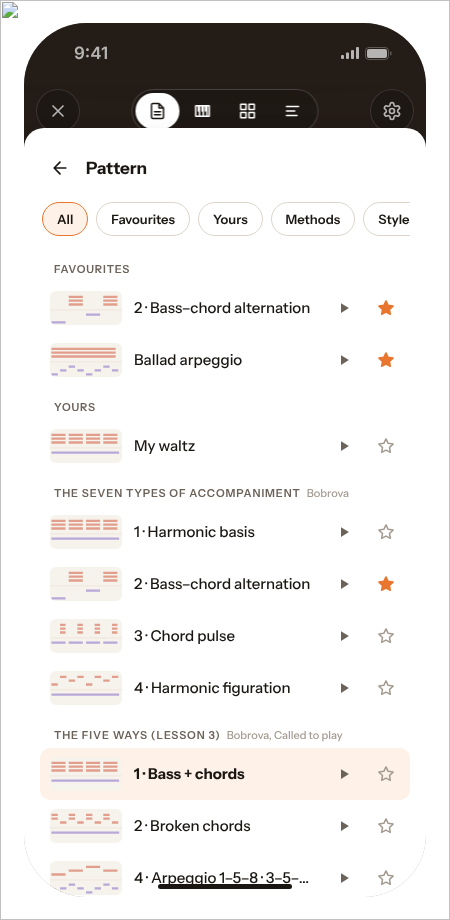
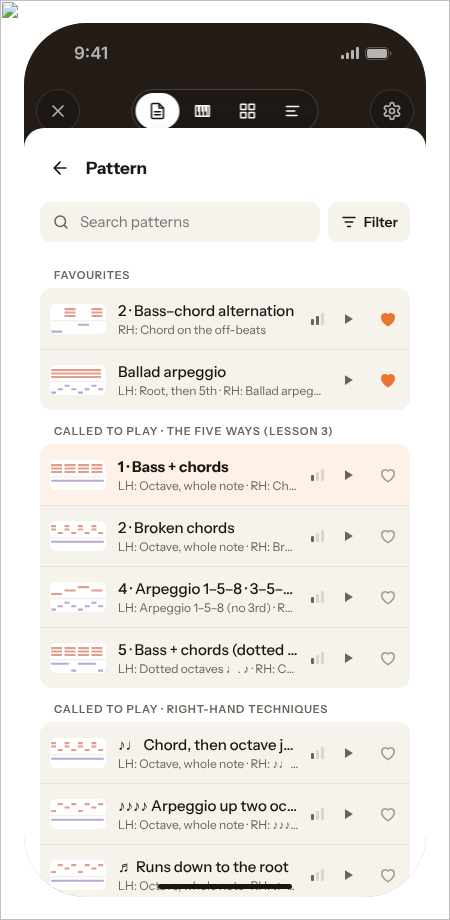
R37 canvas: the Player's Pattern page in the app's library shape
Search and a Level filter instead of kind chips; shelves named as Practice
names them, folded after five; rows with the hands line, level mark and a
heart, as Practice › Accompaniment draws them.

Claude-Session: https://claude.ai/code/session_01BrtnH1Yf7S8aVU4w6rFSCU

diff --git a/.scratch/r37/plan/pace-and-settings.md b/.scratch/r37/plan/pace-and-settings.md
@@ -54,15 +54,22 @@ patterns in our app, and how should they be organized like a library"; the two-a
 - References: Band-in-a-Box's StylePicker (favourites, a genre/feel filter, a double-click preview; pgmusic.com
   manuals), Yamaha arranger keyboards' style list (styles under family headings, a Favourites family), Logic Pro's
   Keyboard Session Player (Block, Broken, Arpeggiated styles with presets, user presets saved; support.apple.com).
-- Will build: Back · **Pattern**; filter chips **All · Favourites · Yours · Methods · Styles** (Methods the books'
-  groups, Styles the Rhythm styles); then the shelves, each under its heading with its book's credit (The seven types
-  of accompaniment · Bobrova; The five ways (lesson 3) · Bobrova, Called to play; Rhythm styles). A row: the
-  pattern's bar as a small two-hand roll (the app's `FigureRoll`, right hand above in its colour, left below), its
-  name, **Listen** (plays the bar), **Favourite** (a star; Favourites lists them first). The one playing is
-  highlighted and bold; a tap chooses it and goes back to Song. Last, **Manage patterns ›** opens Practice ›
-  Accompaniment, where patterns are made, renamed, hidden and arranged: the Player only chooses, listens and stars.
-  A pattern that cannot play this song's meter or chords is left out (`fit.ts`). Drawing:
-  `.scratch/r37/drawings/pattern-library.png`.
+- Second pass ("research more and improve this"): the page now takes the shape of the app's own library
+  (`widgets/practice-library`, the Songs library's shape), so the Player and Practice › Accompaniment read alike;
+  Smart Pianist's pattern list (Block · Arpeggio families, one list) and forScore's searchable lists agree.
+- Will build: Back · **Pattern**; a **Search patterns** field (name and both hands' figures) and **Filter**, which
+  opens a Level choice **All levels · Beginner · Intermediate · Advanced** (the button then reads the level and is
+  outlined). Then the shelves, as the app names them: **Favourites**, **Called to Play · The five ways (lesson 3)**,
+  **Called to Play · Right-hand techniques**, **Called to Play 2 · Octaves and chords (level 2)**, **Bobrova · The
+  seven types of accompaniment**, **Gorshkov · Arranging the accompaniment**, **Rhythm styles**, **Mine** last; each a
+  grouped card folded after five with **Show all n** (a search shows every match). A row: the bar as a small two-hand
+  roll (`FigureRoll`), the name over its hands line (**LH: Octave, whole note · RH: Chord on every beat**, the
+  figures' own names), the level mark (the book's stage, the app's `LevelMark` pips), **Listen** ▶ and **Favourite**
+  ♡ (the app's heart, not a star). The one playing is highlighted and bold; a tap chooses it and goes back to Song.
+  Nothing matches: **No patterns match**. Last, **Manage patterns ›** opens Practice › Accompaniment, where patterns
+  are made, renamed, hidden and arranged: the Player only chooses, listens and favourites. A pattern that cannot play
+  this song's meter or chords is left out (`fit.ts`). Drawings: `.scratch/r37/drawings/pattern-library.png`,
+  `pattern-library-filter.png`.
 - **No Voicing and no Swing** ("what are these swings and chords options"). Voicing (Close · Drop 2) is how far the
   chord's notes are spread, Drop 2 a jazz spacing; Swing plays pairs of 8ths long-short. Both are arranger's
   choices: each pattern carries its own spacing and feel, and the swung patterns are patterns of their own.

diff --git a/.claude/skills/owner-way/references/feedback-log.md b/.claude/skills/owner-way/references/feedback-log.md
@@ -101,9 +101,10 @@ owner's, typos fixed.
     (Pattern ›). Versions and accompaniment are separate, one plays. Rejected: "As written", a switch over version
     tiles, one mixed list. Names are the trade's: flowkey's levels, Smart Pianist's Accompaniment and Pattern. No Voicing or Swing; the accompaniment is not in
     Practice.
-  - The Player's Pattern page is the app's own accompaniment library: chips All · Favourites · Yours · Methods ·
-    Styles, shelves by book (credited), rows with a two-hand roll, Listen and a star, Manage patterns › to Practice.
-    Never cards two a row.
+  - The Player's Pattern page is the app's own accompaniment library in the library's shape: Search and Filter
+    (Level), shelves named as Practice names them (book · group, Rhythm styles, Mine last) folded after five, rows
+    with a two-hand roll, the name over the hands line, the level mark, Listen and a heart; Manage patterns › to
+    Practice. Never chips by kind, stars or cards two a row.
   - The metronome is Flat's: one Off · Count-in · On choice under the tempo, and Metronome sound › opens a page
     (sound list with a check, Volume, Back). A choice with its own list opens a page, as Flat's Playback options do.
   - No cursor or scrolling settings at all, neither a switch nor choices (rejected twice). The cursor moves by
